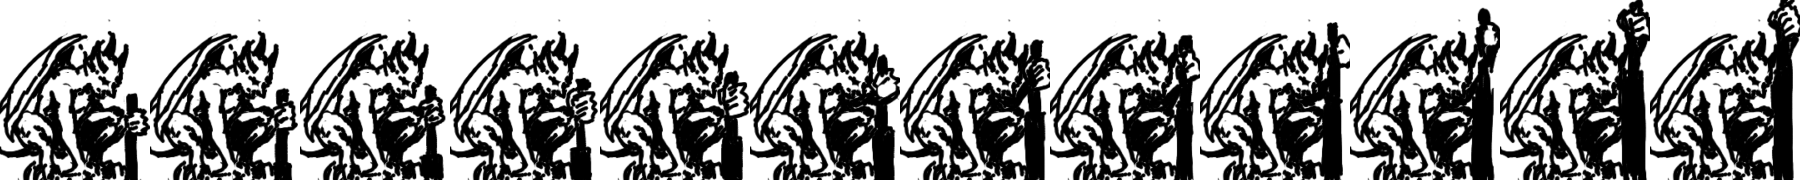
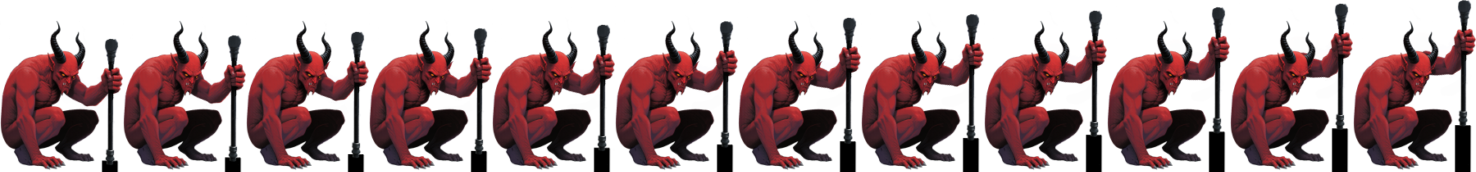
updating demon, removing extra vars, formatting cleanup

diff --git a/src/game.cpp b/src/game.cpp
@@ -3,9 +3,7 @@
 void Game::Load(short density) {
     chamber.Load();
     Thermal stats = gas.Load(chamber, density);
-    Memo memo = {
-        .stats = stats
-    };
+    Memo memo = { .stats = stats };
     cache = memo;
     entropy.Load(memo);
     chamber.Init(memo);
@@ -17,13 +15,12 @@ void Game::Load(short density) {
 void Game::Init(short density) {
     chamber.Load();
     Thermal stats = gas.Load(chamber, density);
-    Memo memo = {
-        .stats = stats
-    };
+    Memo memo = { .stats = stats };
     cache = memo;
     entropy.Init(memo);
     chamber.Init(memo);
     maxwell->Init();
+    isToasted = false;
 }
 
 Memo Game::Update() {
@@ -31,7 +28,7 @@ Memo Game::Update() {
     UIEvent event = display.Update();
 
     if (event.reset) {
-        Init(25);
+        Init(DENSITY_START);
         return cache;
     }
 
@@ -39,9 +36,7 @@ Memo Game::Update() {
         if (state == State::PLAY) {
             state = State::PAUSE;
             Thermal stats = gas.Update(chamber);
-            Memo memo = {
-                .stats = stats
-            };
+            Memo memo = { .stats = stats };
             chamber.Update(memo);
             entropy.Update(memo);
             cache = memo;
@@ -54,9 +49,7 @@ Memo Game::Update() {
     if (event.add) {
         gas.Add(chamber);
         Thermal stats = gas.Count();
-        Memo memo = {
-            .stats = stats
-        };
+        Memo memo = { .stats = stats };
         chamber.Init(memo);
         chamber.UpdateColors(memo.stats);
         entropy.Init(memo);
@@ -67,9 +60,7 @@ Memo Game::Update() {
     if (event.sub) {
         gas.Sub(chamber);
         Thermal stats = gas.Count();
-        Memo memo = {
-            .stats = stats
-        };
+        Memo memo = { .stats = stats };
         chamber.Init(memo);
         chamber.UpdateColors(memo.stats);
         entropy.Init(memo);
@@ -82,13 +73,11 @@ Memo Game::Update() {
     }
 
     Thermal stats = gas.Update(chamber);
-    Memo memo = {
-        .stats = stats
-    };
+    Memo memo = { .stats = stats };
     chamber.Update(memo);
-    bool isZero = entropy.Update(memo);
     demon.Update();
 
+    bool isZero = entropy.Update(memo);
     if(isZero && !isToasted) {
         maxwell->Toasty();
         isToasted = true;

diff --git a/include/display.hpp b/include/display.hpp
@@ -30,7 +30,9 @@ class Display {
 	Rectangle pauseButton = Rectangle({ PAUSE_BUTTON_X, PAUSE_BUTTON_Y, RECTANGLE_BUTTON_WIDTH, RECTANGLE_BUTTON_HEIGHT }); 
 	Rectangle pauseButtonBorder = Rectangle({ PAUSE_BUTTON_X - BORDER_WIDTH/2.0f, PAUSE_BUTTON_Y - BORDER_WIDTH/2.0f, RECTANGLE_BUTTON_WIDTH + BORDER_WIDTH, RECTANGLE_BUTTON_HEIGHT + BORDER_WIDTH }); 
 	Rectangle subButton = Rectangle({ SUB_BUTTON_X, SUB_BUTTON_Y, SQUARE_BUTTON_WIDTH, SQUARE_BUTTON_HEIGHT }); 
-	Rectangle addButton = Rectangle({ ADD_BUTTON_X, ADD_BUTTON_Y, SQUARE_BUTTON_WIDTH, SQUARE_BUTTON_HEIGHT }); 
+	Rectangle subButtonBorder = Rectangle({ SUB_BUTTON_X - BORDER_WIDTH/2.0f, SUB_BUTTON_Y - BORDER_WIDTH/2.0f, SQUARE_BUTTON_WIDTH + BORDER_WIDTH, SQUARE_BUTTON_HEIGHT + BORDER_WIDTH });
+	Rectangle addButton = Rectangle({ ADD_BUTTON_X, ADD_BUTTON_Y, SQUARE_BUTTON_WIDTH, SQUARE_BUTTON_HEIGHT });
+	Rectangle addButtonBorder = Rectangle({ ADD_BUTTON_X - BORDER_WIDTH/2.0f, ADD_BUTTON_Y - BORDER_WIDTH/2.0f, SQUARE_BUTTON_WIDTH + BORDER_WIDTH, SQUARE_BUTTON_HEIGHT + BORDER_WIDTH });
 	const char* resetText = "reset";
 	const char* pauseText = "pause";
 	const char* subText = "-";

diff --git a/src/display.cpp b/src/display.cpp
@@ -35,11 +35,13 @@ void Display::Render() const {
 	DrawRectangleRec(resetButton, RAYWHITE);
 	DrawText(resetText, RECTANGLE_PAD_X(RESET_BUTTON_X), RECTANGLE_PAD_Y(RESET_BUTTON_Y), FONT_SIZE, BLACK);
 
-	DrawRectangleRec(subButton, BLUE);
-	DrawText(subText, SUB_BUTTON_PAD_X(SUB_BUTTON_X), SQUARE_PAD_Y(SUB_BUTTON_Y), FONT_SIZE, RAYWHITE);
+	DrawRectangleRec(subButtonBorder, BLACK);
+	DrawRectangleRec(subButton, RAYWHITE);
+	DrawText(subText, SUB_BUTTON_PAD_X(SUB_BUTTON_X), SQUARE_PAD_Y(SUB_BUTTON_Y), FONT_SIZE, BLACK);
 
-	DrawRectangleRec(addButton, RED);
-	DrawText(addText, SQUARE_PAD_X(ADD_BUTTON_X), SQUARE_PAD_Y(ADD_BUTTON_Y), FONT_SIZE, RAYWHITE);
+	DrawRectangleRec(addButtonBorder, BLACK);
+	DrawRectangleRec(addButton, RAYWHITE);
+	DrawText(addText, SQUARE_PAD_X(ADD_BUTTON_X), SQUARE_PAD_Y(ADD_BUTTON_Y), FONT_SIZE, BLACK);
 }
 
 void Display::Unload() {

diff --git a/include/chamber.hpp b/include/chamber.hpp
@@ -3,8 +3,8 @@
 #include "common.hpp" 
 #include "grid.hpp"
 
-#define DOOR_MIN_Y 250.0f
-#define DOOR_MAX_Y 350.0f
+#define DOOR_MIN_Y 200.0f
+#define DOOR_MAX_Y 330.0f
 #define DOOR_OPEN_FRAMES 60
 
 #define DOOR_MAX_FRAMES 59
@@ -27,9 +27,9 @@ typedef struct Wall {
 
 class Chamber {
     std::array<Wall, 3> walls = {
-    	Wall({ Rectangle({633, 190, 14, 160}), 0 }),
-    	Wall({ Rectangle({633, 350, 14, 110}), 1 }),
-    	Wall({ Rectangle({633, 460, 14, 160}), 2 })
+    	Wall({ Rectangle({633, 190, 14, 155}), 0 }),
+    	Wall({ Rectangle({633, 330, 14, 140}), 1 }),
+    	Wall({ Rectangle({633, 460, 14, 155}), 2 })
     };
 	Grid grid;
 	Rectangle sensor = Rectangle({610, 300, 60, 200});

diff --git a/include/demon.hpp b/include/demon.hpp
@@ -19,11 +19,9 @@ constexpr const auto DEMON_FRAMES = generate_frames();
 
 class Demon {
 	Texture2D demonAtlas;
-	Rectangle frame = Rectangle({ 0, 0, 150, 188 });
-	Vector2 position = Vector2({ 505, 10 });
-	int framePosition = 0;
+	Rectangle frame = Rectangle({ 0, 0, 123, 172 });
+	Vector2 position = Vector2({ 530, 20 });
 	int frameCount = 0;
-	int frameSpeed = 2;
 	bool isLoweringArm = false;
 
 public:

diff --git a/src/main.cpp b/src/main.cpp
@@ -14,7 +14,7 @@ int main(void){
     InitWindow(client.screenWidth, client.screenHeight, PROJECT_NAME);
     InitAudioDevice();
     
-    client.Load(7);
+    client.Load(DENSITY_START);
     client.Run();
     client.Unload();
 

diff --git a/include/config.h b/include/config.h
@@ -3,5 +3,5 @@
 #define PROJECT_NAME "Maxwells-Demon"
 #define VERSION "0.1.0"
 #define DEBUG 1
-#define DATE_BUILD "2026-01-07 23:55:23"
+#define DATE_BUILD "2026-01-09 06:49:09"
 #define DIR_ASSETS "assets"

diff --git a/include/gas.hpp b/include/gas.hpp
@@ -4,7 +4,7 @@
 #include "grid.hpp"
 #include "chamber.hpp"
 
-#define MAX_DENSITY 30
+#define MAX_DENSITY 100
 
 #define MAX_SPEED 400.0f
 #define RESTITUTION 0.8f

diff --git a/include/common.hpp b/include/common.hpp
@@ -7,6 +7,8 @@
 #define SCREEN_WIDTH 1280
 #define SCREEN_HEIGHT 720
 
+#define DENSITY_START 18
+
 #define MOLECULE_RADIUS 12.0f
 
 #define CONTAINER_WIDTH 820
